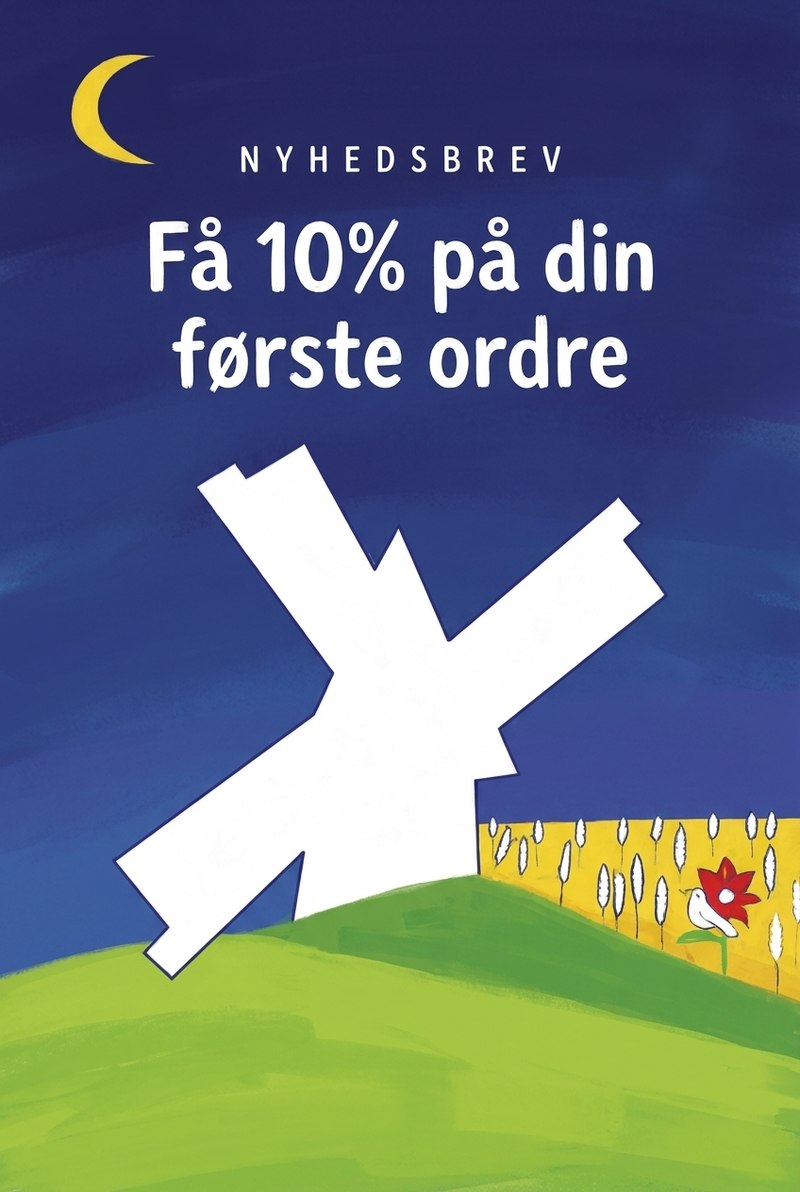
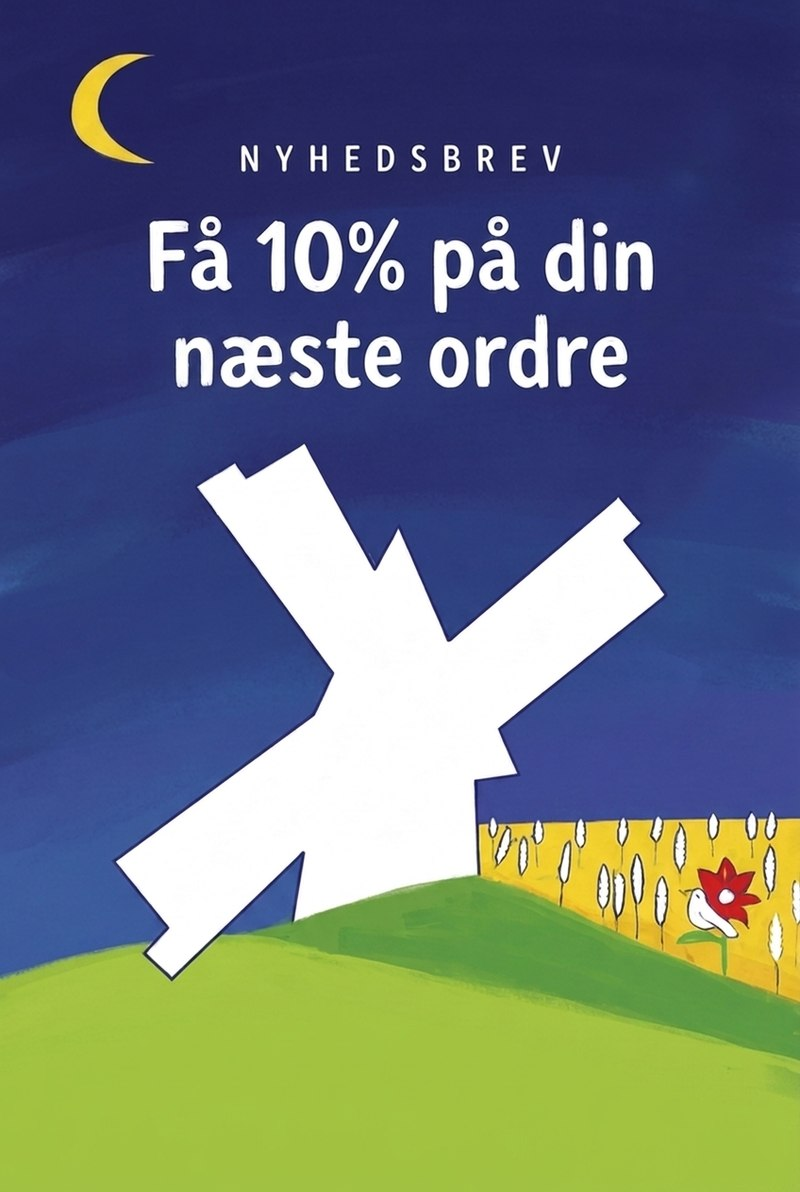
newsletter: 'næste ordre' poster with the scene shifted up clear of the form
Regenerated the poster (Higgsfield edit of the previous art): headline now
reads 'Få 10% på din næste ordre' and the mill, wheat field and horizon sit
higher so the bottom quarter is plain green hill — the email field and button
no longer cover any artwork (form also made more compact). Welcome email
updated to 'næste ordre', and the Stripe promo is created WITHOUT the
first-order-only restriction so the promise holds for existing customers too.

Claude-Session: https://claude.ai/code/session_0135uKpqNuLcqQpAC8wtHGQK

diff --git a/api/log-visit.js b/api/log-visit.js
@@ -63,7 +63,7 @@ export default async function handler(req, res) {
 
 // ── NEWSLETTER SIGNUP ────────────────────────────────────────────────────────
 // Stores the email in Redis (newsletter:emails hash), makes sure the 10%
-// welcome promotion code exists in Stripe (VELKOMMEN10, first order only), and
+// welcome promotion code exists in Stripe (VELKOMMEN10), and
 // sends the welcome email with the code via Resend. Duplicate signups return ok
 // without re-sending, so the form can't be abused to spam someone's inbox.
 const NEWSLETTER_CODE = 'VELKOMMEN10';
@@ -85,7 +85,7 @@ async function handleNewsletter(req, res, body) {
       return res.status(500).json({ ok: false, error: 'Kunne ikke gemme tilmeldingen. Prøv igen.' });
     }
 
-    // Make sure the promotion code exists in Stripe (10% off, first order only).
+    // Make sure the promotion code exists in Stripe (10% off).
     try { await ensureWelcomePromo(); } catch (e) { console.error('promo ensure failed:', e.message); }
 
     // Welcome email with the code (best-effort — the signup itself is saved).
@@ -110,7 +110,6 @@ async function ensureWelcomePromo() {
   await stripe.promotionCodes.create({
     coupon: coupon.id,
     code: NEWSLETTER_CODE,
-    restrictions: { first_time_transaction: true }, // only for first-time customers
   });
 }
 
@@ -125,7 +124,7 @@ async function sendWelcomeEmail(email) {
     <h2 style="color:#273071;text-align:center;margin:0 0 8px;">Velkommen til Quartz Mølle</h2>
     <p style="text-align:center;margin:0 0 20px;color:#4a463f;">Tak fordi du tilmeldte dig vores nyhedsbrev. Her er din velkomstgave:</p>
     <div style="background:#fff;border:2px dashed #3a4599;border-radius:14px;padding:20px;text-align:center;margin:0 0 8px;">
-      <div style="font-size:13px;color:#6b6256;margin-bottom:6px;">10% på din første ordre med koden</div>
+      <div style="font-size:13px;color:#6b6256;margin-bottom:6px;">10% på din næste ordre med koden</div>
       <div style="font-size:30px;font-weight:800;letter-spacing:3px;color:#273071;">${NEWSLETTER_CODE}</div>
     </div>
     <p style="text-align:center;font-size:13px;color:#6b6256;margin:0 0 22px;">Indtast koden i feltet "Tilføj rabatkode" ved betalingen.</p>
@@ -144,7 +143,7 @@ async function sendWelcomeEmail(email) {
     body: JSON.stringify({
       from: 'Quartz Mølle <order@quartzmolle.dk>',
       to: [email],
-      subject: 'Din rabatkode: 10% på din første ordre 🌾',
+      subject: 'Din rabatkode: 10% på din næste ordre 🌾',
       html,
     }),
   });

diff --git a/css/style.css b/css/style.css
@@ -2119,18 +2119,20 @@ body:has(.mobile-menu.open) .lang-switch-btn .lang-chevron {
 }
 @keyframes nlPop { from { opacity: 0; transform: translateY(28px) scale(.96); } to { opacity: 1; transform: none; } }
 .nl-bg { position: absolute; inset: 0; width: 100%; height: 100%; object-fit: cover; object-position: center top; }
-.nl-formwrap { position: absolute; left: 16px; right: 16px; bottom: 16px; z-index: 2; }
-.nl-formwrap .newsletter-form { flex-direction: column; gap: .55rem; max-width: none; }
+.nl-formwrap { position: absolute; left: 16px; right: 16px; bottom: 13px; z-index: 2; }
+.nl-formwrap .newsletter-form { flex-direction: column; gap: .45rem; max-width: none; }
 .nl-formwrap .newsletter-form input {
   border: none; background: rgba(255,255,255,.97); box-shadow: 0 8px 26px rgba(0,0,0,.28);
+  padding: .72rem 1rem; font-size: .95rem;
 }
 .nl-formwrap .newsletter-form input:focus { outline: 3px solid rgba(255,255,255,.5); }
 .nl-formwrap .newsletter-form button {
   background: var(--brand-blue); color: #fff; box-shadow: 0 8px 26px rgba(27,34,82,.45);
+  padding: .72rem 1rem; font-size: .95rem;
 }
 .nl-formwrap .newsletter-msg {
-  color: #fff; text-align: center; margin-top: .5rem; min-height: 1.2em;
-  text-shadow: 0 1px 8px rgba(0,0,0,.55); font-weight: 700; font-size: .88rem;
+  color: #fff; text-align: center; margin-top: .35rem; min-height: 0;
+  text-shadow: 0 1px 8px rgba(0,0,0,.55); font-weight: 700; font-size: .85rem;
 }
 .nl-formwrap .newsletter-msg.err { color: #ffd9d9; }
 .nl-close {

diff --git a/index.html b/index.html
@@ -335,7 +335,7 @@
   <div class="nl-modal" id="nlModal" role="dialog" aria-modal="true" aria-label="Nyhedsbrev">
     <div class="nl-backdrop" data-nl-close></div>
     <div class="nl-card">
-      <img class="nl-bg" src="images/newsletter-art.jpg" alt="Få 10% på din første ordre — tilmeld dig nyhedsbrevet" loading="lazy" />
+      <img class="nl-bg" src="images/newsletter-art.jpg" alt="Få 10% på din næste ordre — tilmeld dig nyhedsbrevet" loading="lazy" />
       <button class="nl-close" data-nl-close aria-label="Luk">
         <svg width="18" height="18" viewBox="0 0 24 24" fill="none" stroke="currentColor" stroke-width="2.5"><line x1="18" y1="6" x2="6" y2="18"/><line x1="6" y1="6" x2="18" y2="18"/></svg>
       </button>
